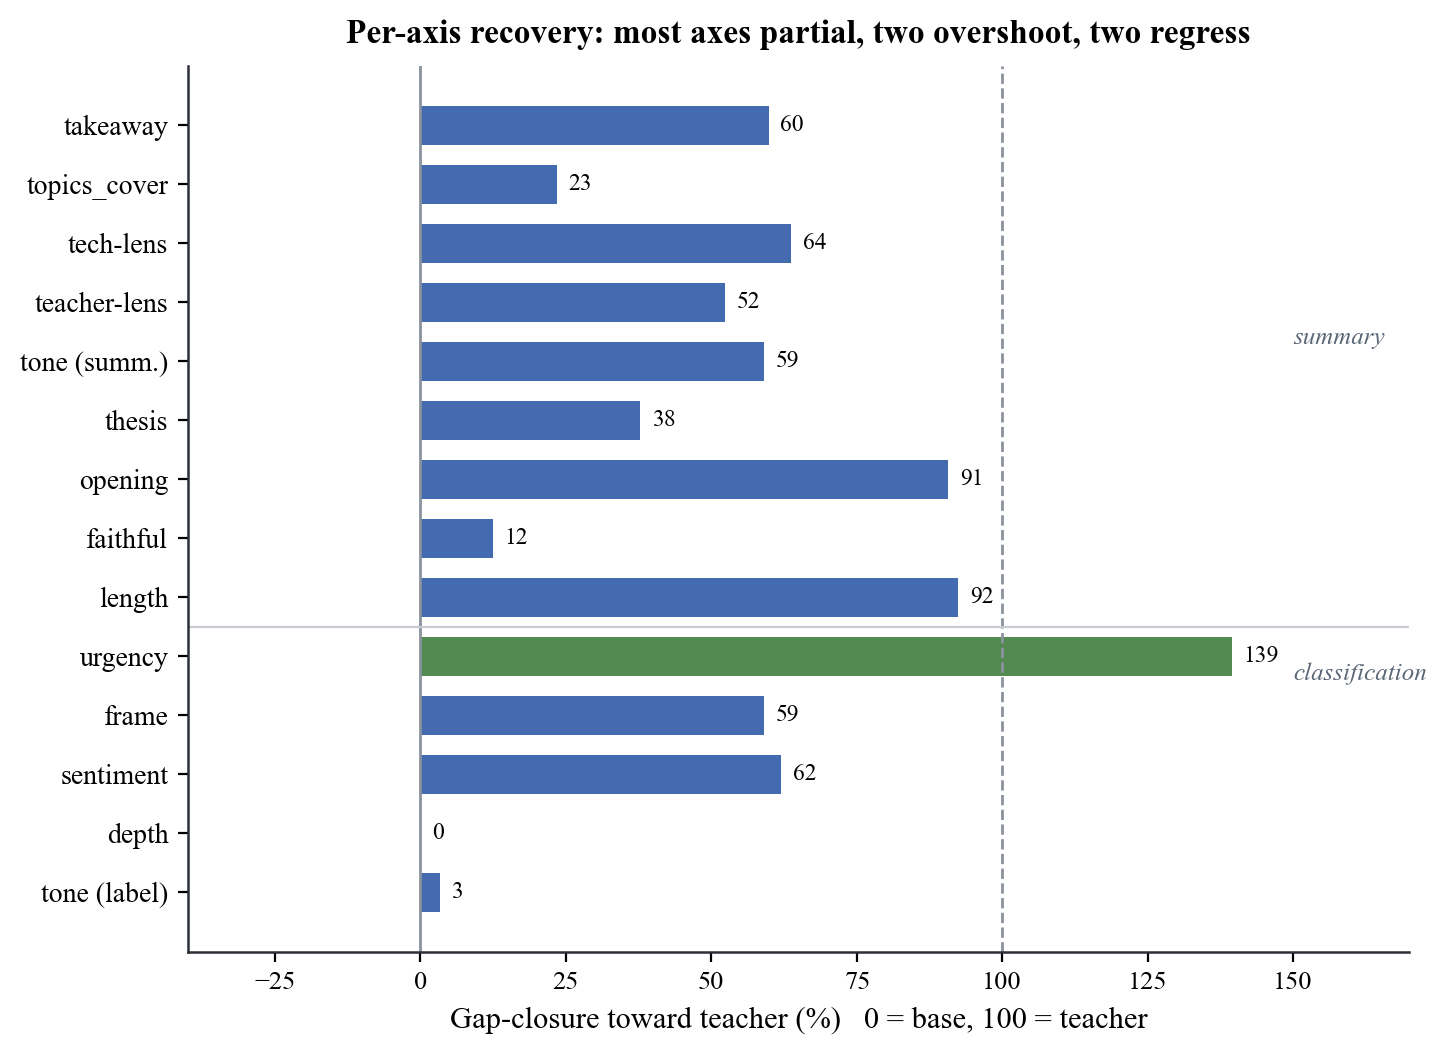
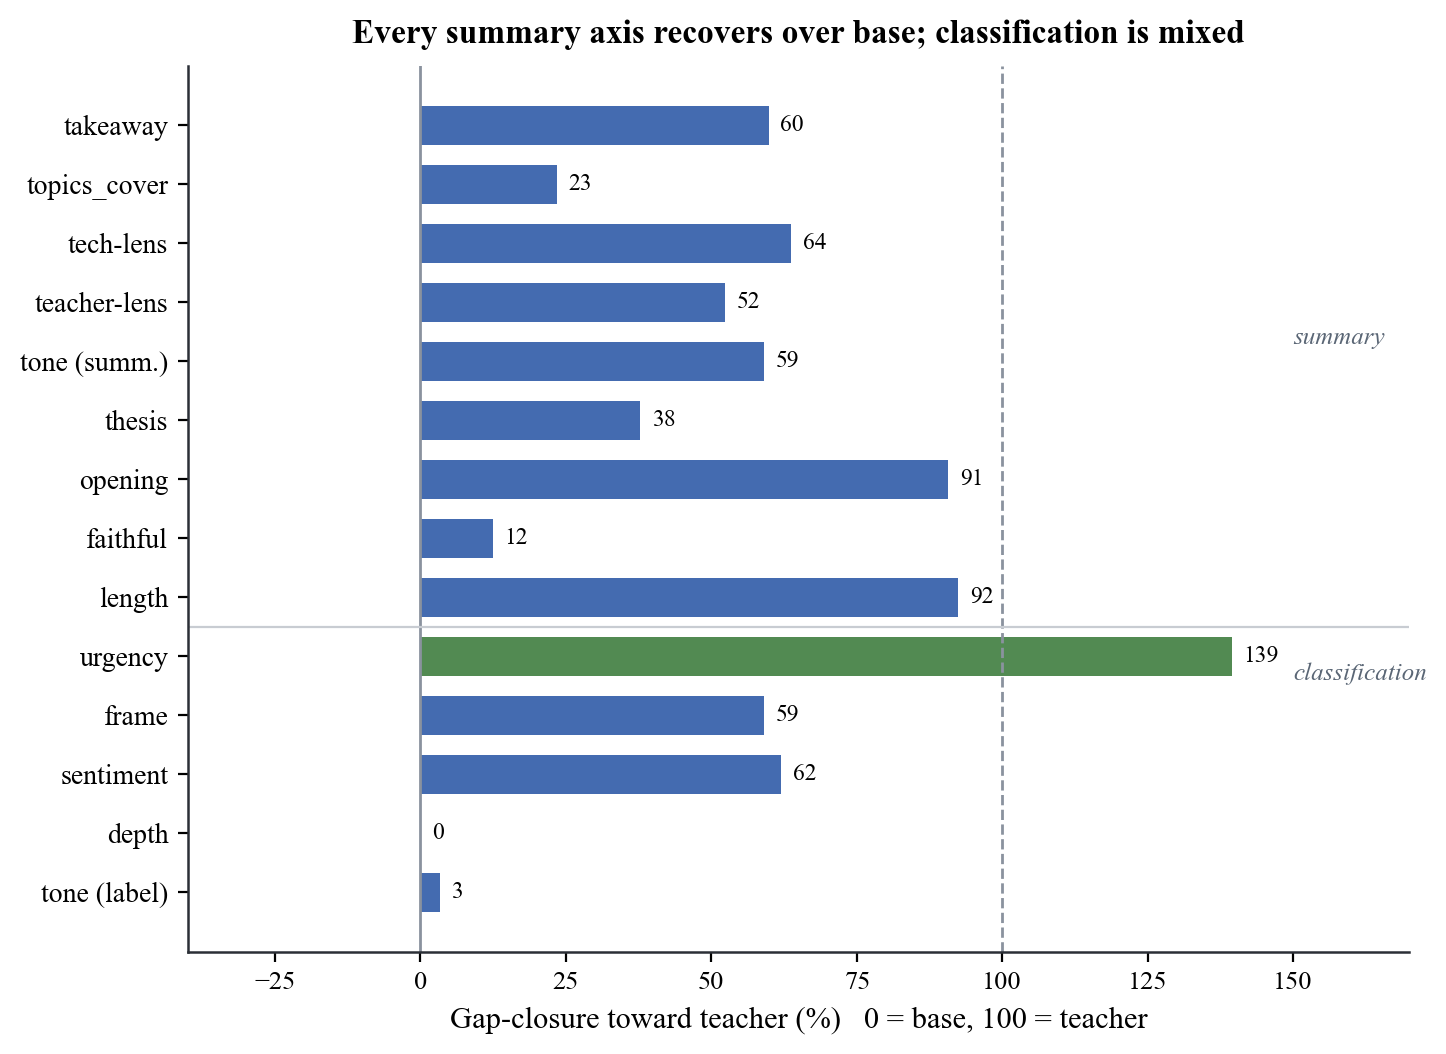
Reviewer round 2: fix Fig 3, add Router B', managed classification column, soften faithfulness claims, restructure Results
- Fig 3 regenerated from canonical scorecard (faithful/length now positive recovery; title fixed)
- Router B' (short->Llama-8B teacher): highest bulk-on-device faithfulness (82.8) at ~14 min; router_bprime.mjs reproduces A/B/C exactly
- Table VI gains managed (Plat.) per-field column; depth 59.8 now verifiable
- Faithfulness-transfer claim softened to a consistent-but-non-significant ordering (abstract, intro, contributions, teacher-transfer section)
- Results restructured 10->5 subsections; Robustness renamed Grading Validity and leads with the full-source result
- Consistency: 75.0->75.1, 58% gap, third-order-distillation framed as conjecture

Changed region(s): [[0.249, 0.0, 0.8714, 0.0607]]

diff --git a/paper/figures/gen_fig3_fig4_fig5.py b/paper/figures/gen_fig3_fig4_fig5.py
@@ -66,7 +66,7 @@ ax.text(150, 9.3, "summary", fontsize=9, style="italic", color="#5a6675")
 ax.text(150, 3.6, "classification", fontsize=9, style="italic", color="#5a6675")
 ax.set_xlim(-40, 170); ax.set_xlabel("Gap-closure toward teacher (%)   0 = base, 100 = teacher")
 ax.spines[["top", "right"]].set_visible(False)
-ax.set_title("Per-axis recovery: most axes partial, two overshoot, two regress", fontweight="bold", pad=8)
+ax.set_title("Every summary axis recovers over base; classification is mixed", fontweight="bold", pad=8)
 plt.tight_layout(); plt.savefig("paper/figures/fig3_gap_closure.png"); plt.close()
 print("fig3_gap_closure.png")
 